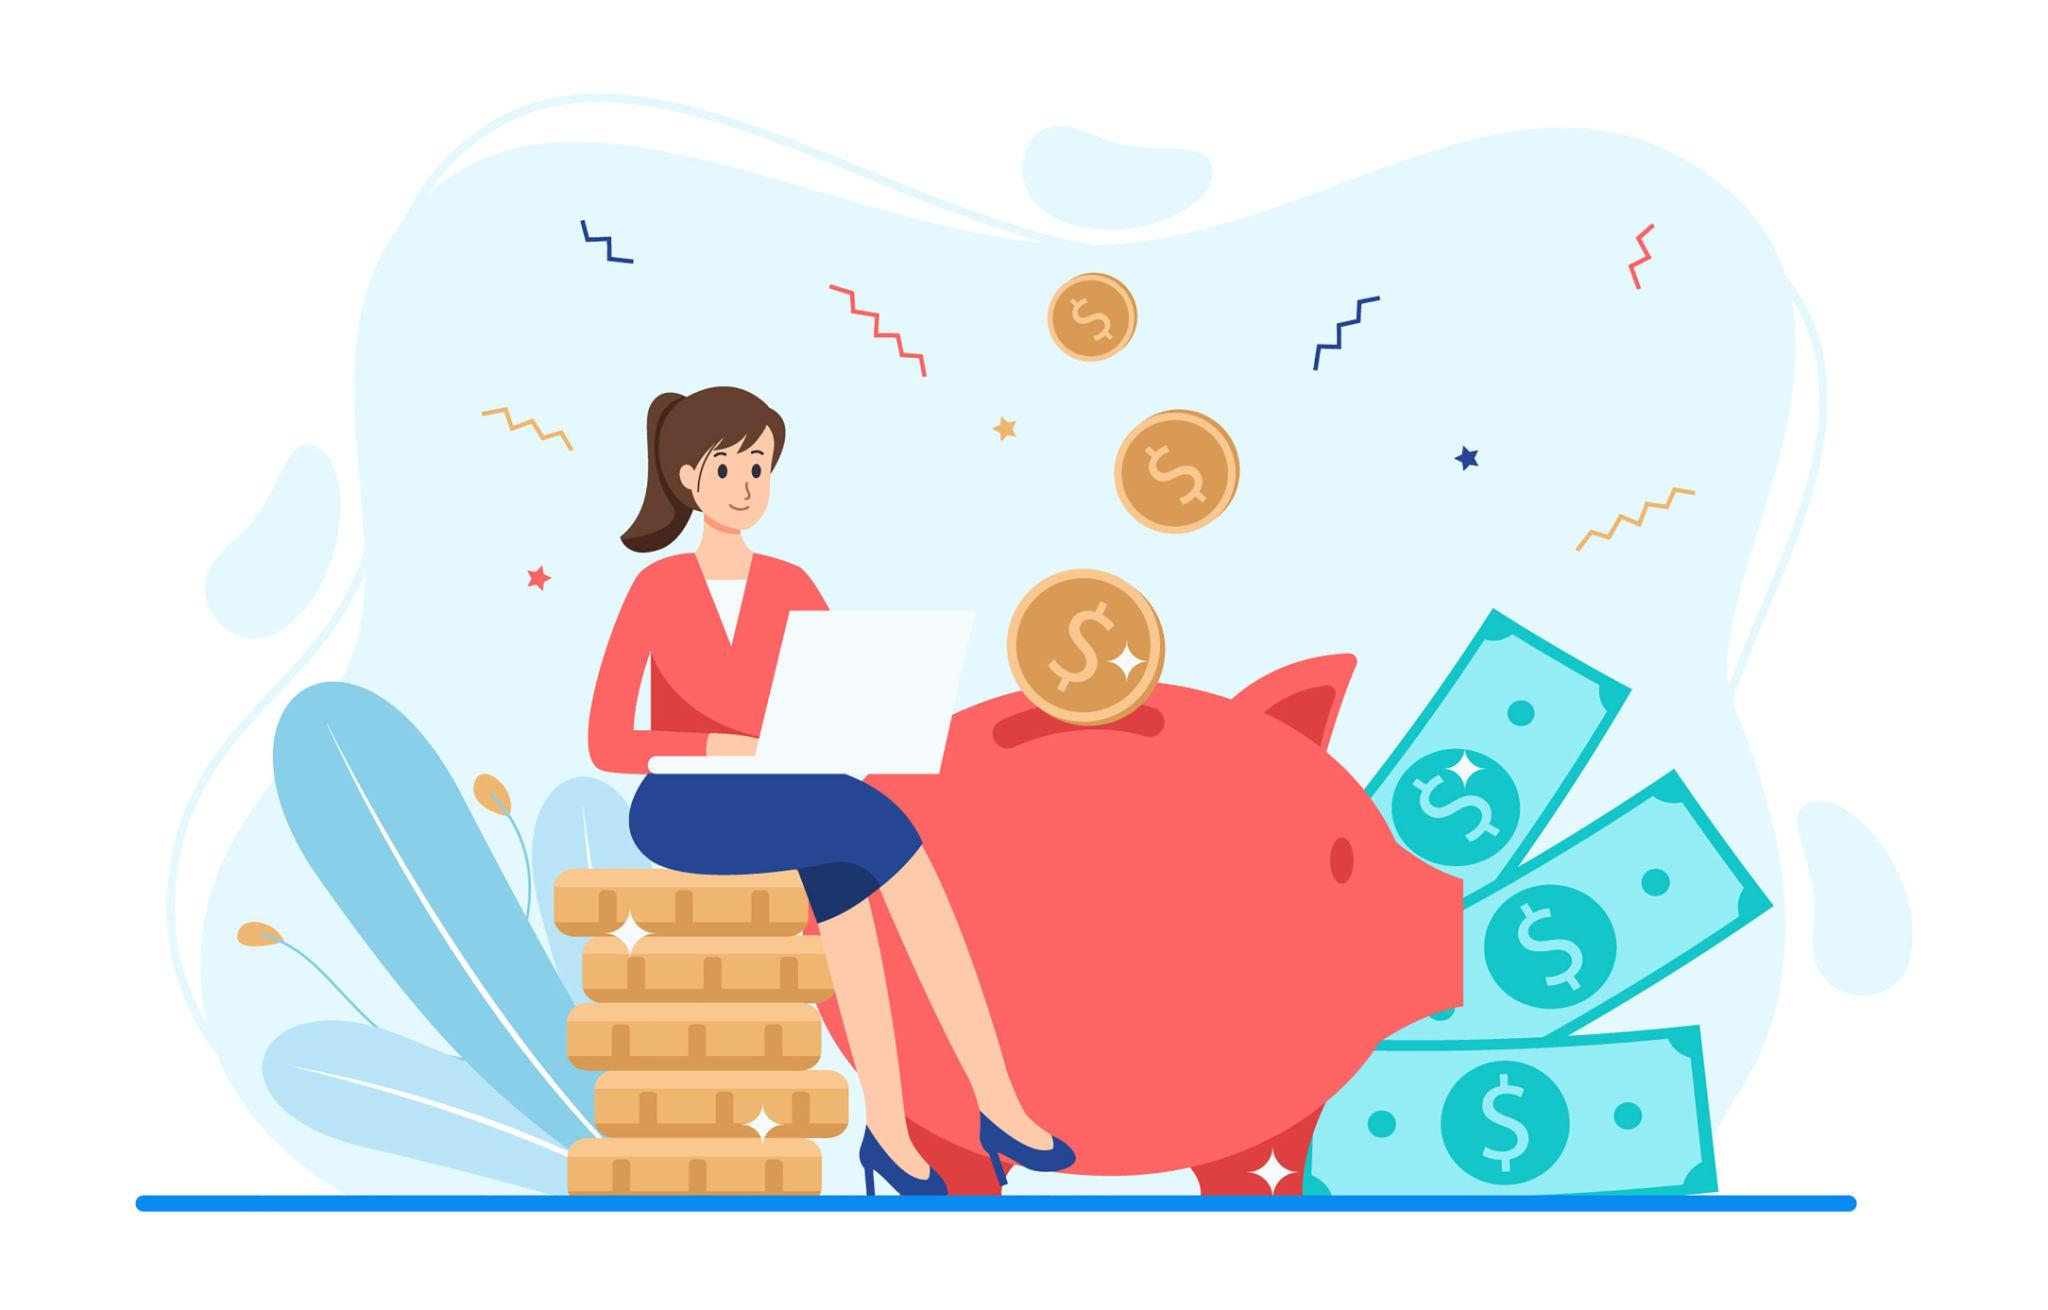
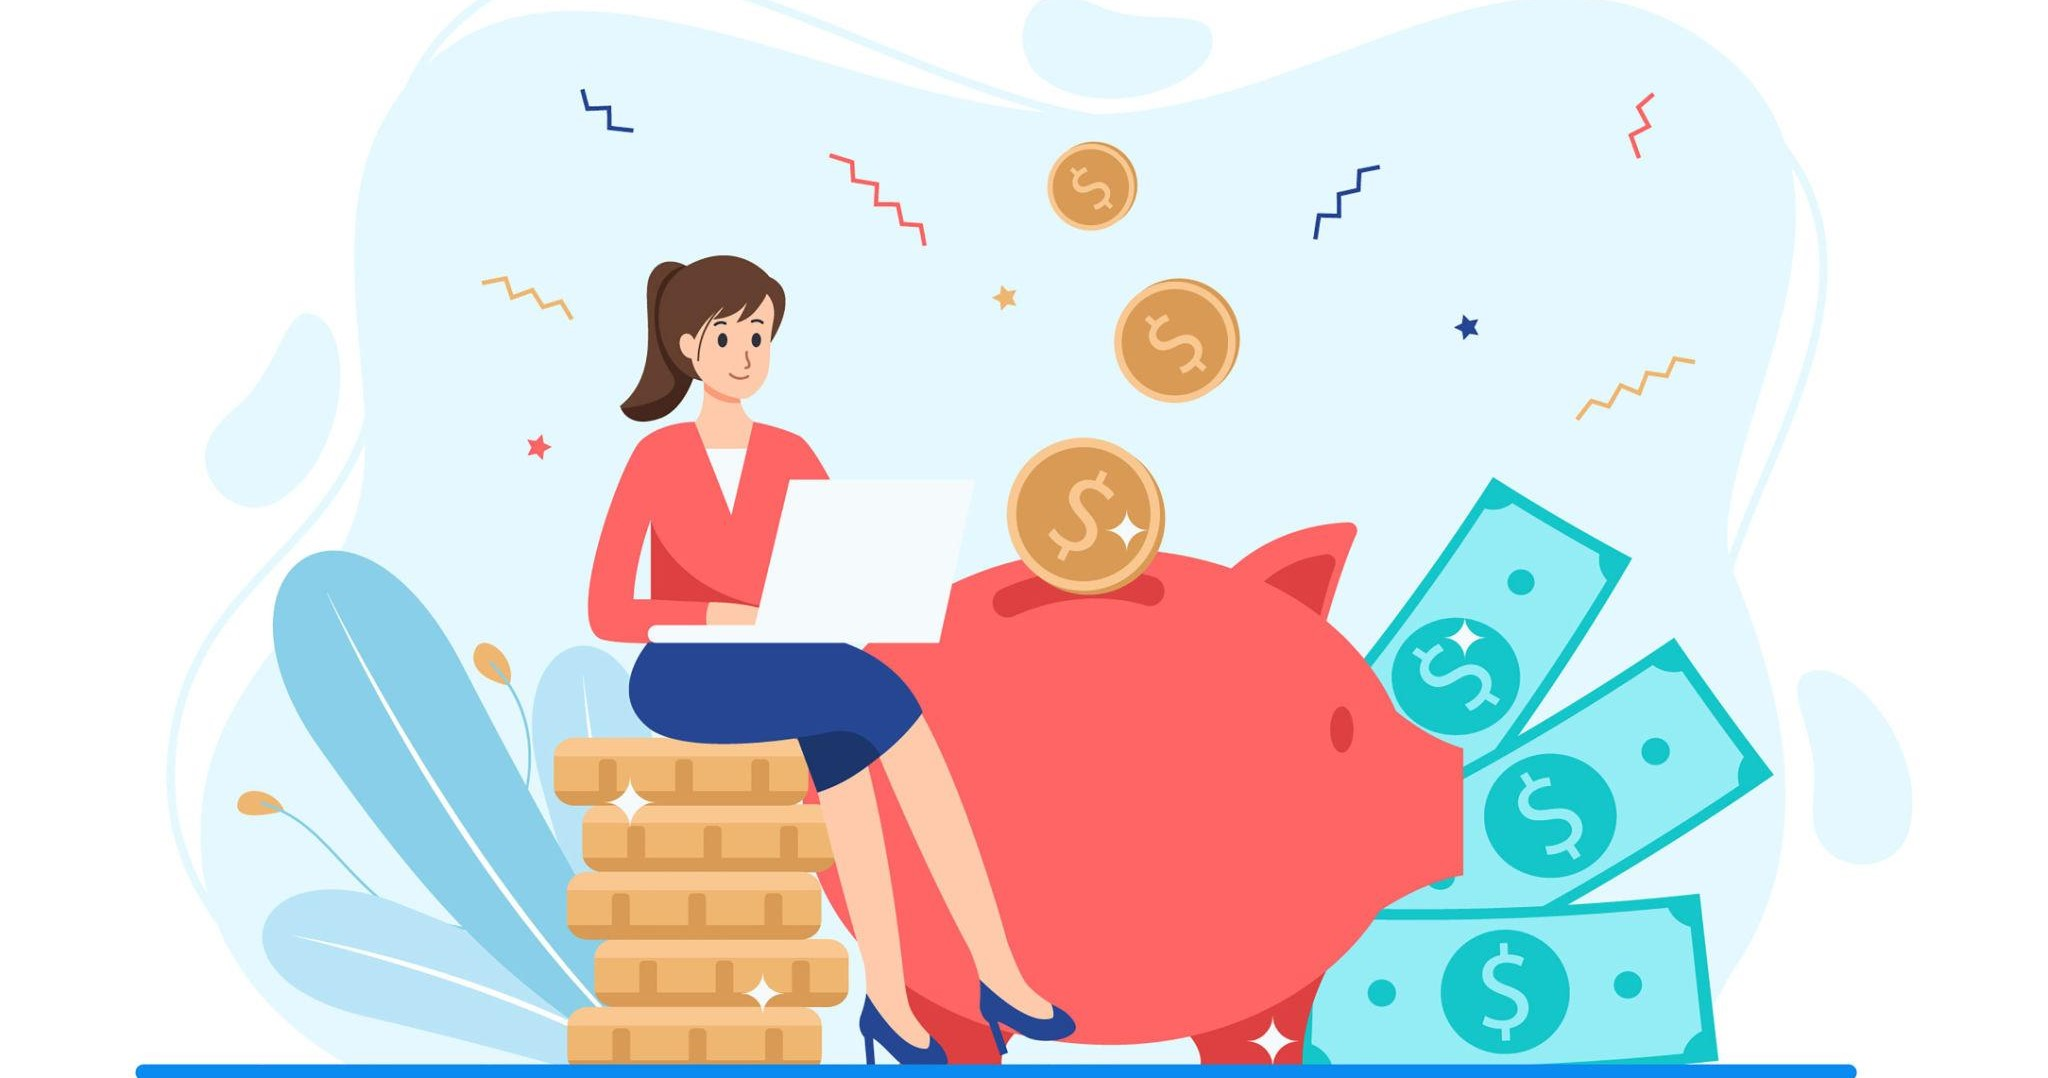
frontend touches

diff --git a/frontend/expense-tracker/src/components/Dashboard/BudgetWidget.jsx b/frontend/expense-tracker/src/components/Dashboard/BudgetWidget.jsx
@@ -72,7 +72,7 @@ const BudgetWidget = () => {
     <div className="bg-white dark:bg-gray-800 rounded-lg p-4 shadow-sm border border-gray-200 dark:border-gray-700">
       {/* Top Banner */}
       <div className="mb-4 overflow-hidden rounded-lg">
-        <img src={banner} alt="Budget Planning" className="w-full h-28 object-cover" />
+        <img src={banner} alt="Budget Planning" className="w-full h-33 object-cover object-center" />
       </div>
 
       {/* Header with greeting */}

diff --git a/frontend/expense-tracker/src/components/Charts/MonthlyBarChart.jsx b/frontend/expense-tracker/src/components/Charts/MonthlyBarChart.jsx
@@ -9,8 +9,8 @@ import {
   YAxis,
 } from 'recharts';
 
-import CustomToolTip from '../Charts/MonthlyToolTip';
-import CustomLegend from '../charts/CustomLegend';
+import CustomToolTip from './MonthlyToolTip';
+import CustomLegend from './CustomLegend';
 
 const MonthlyBarChart = ({ data = [] }) => {
   return (
